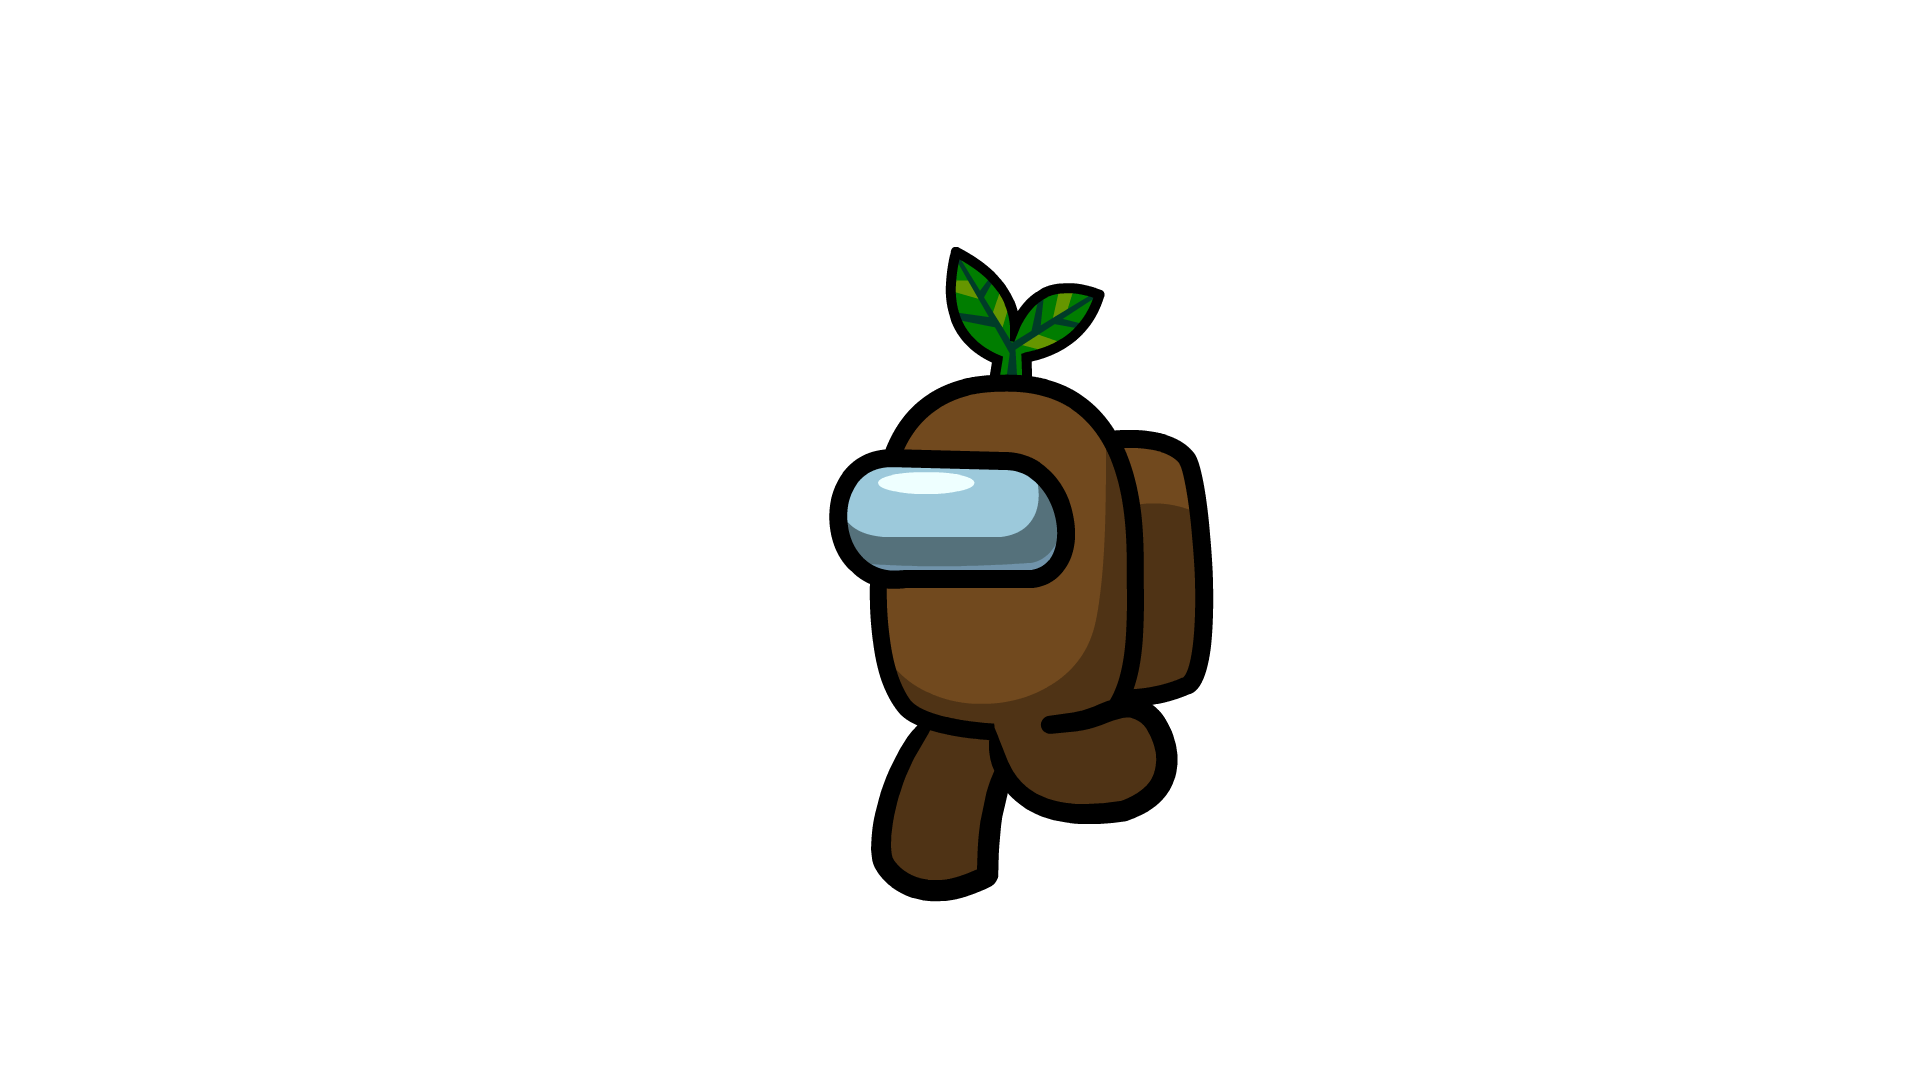
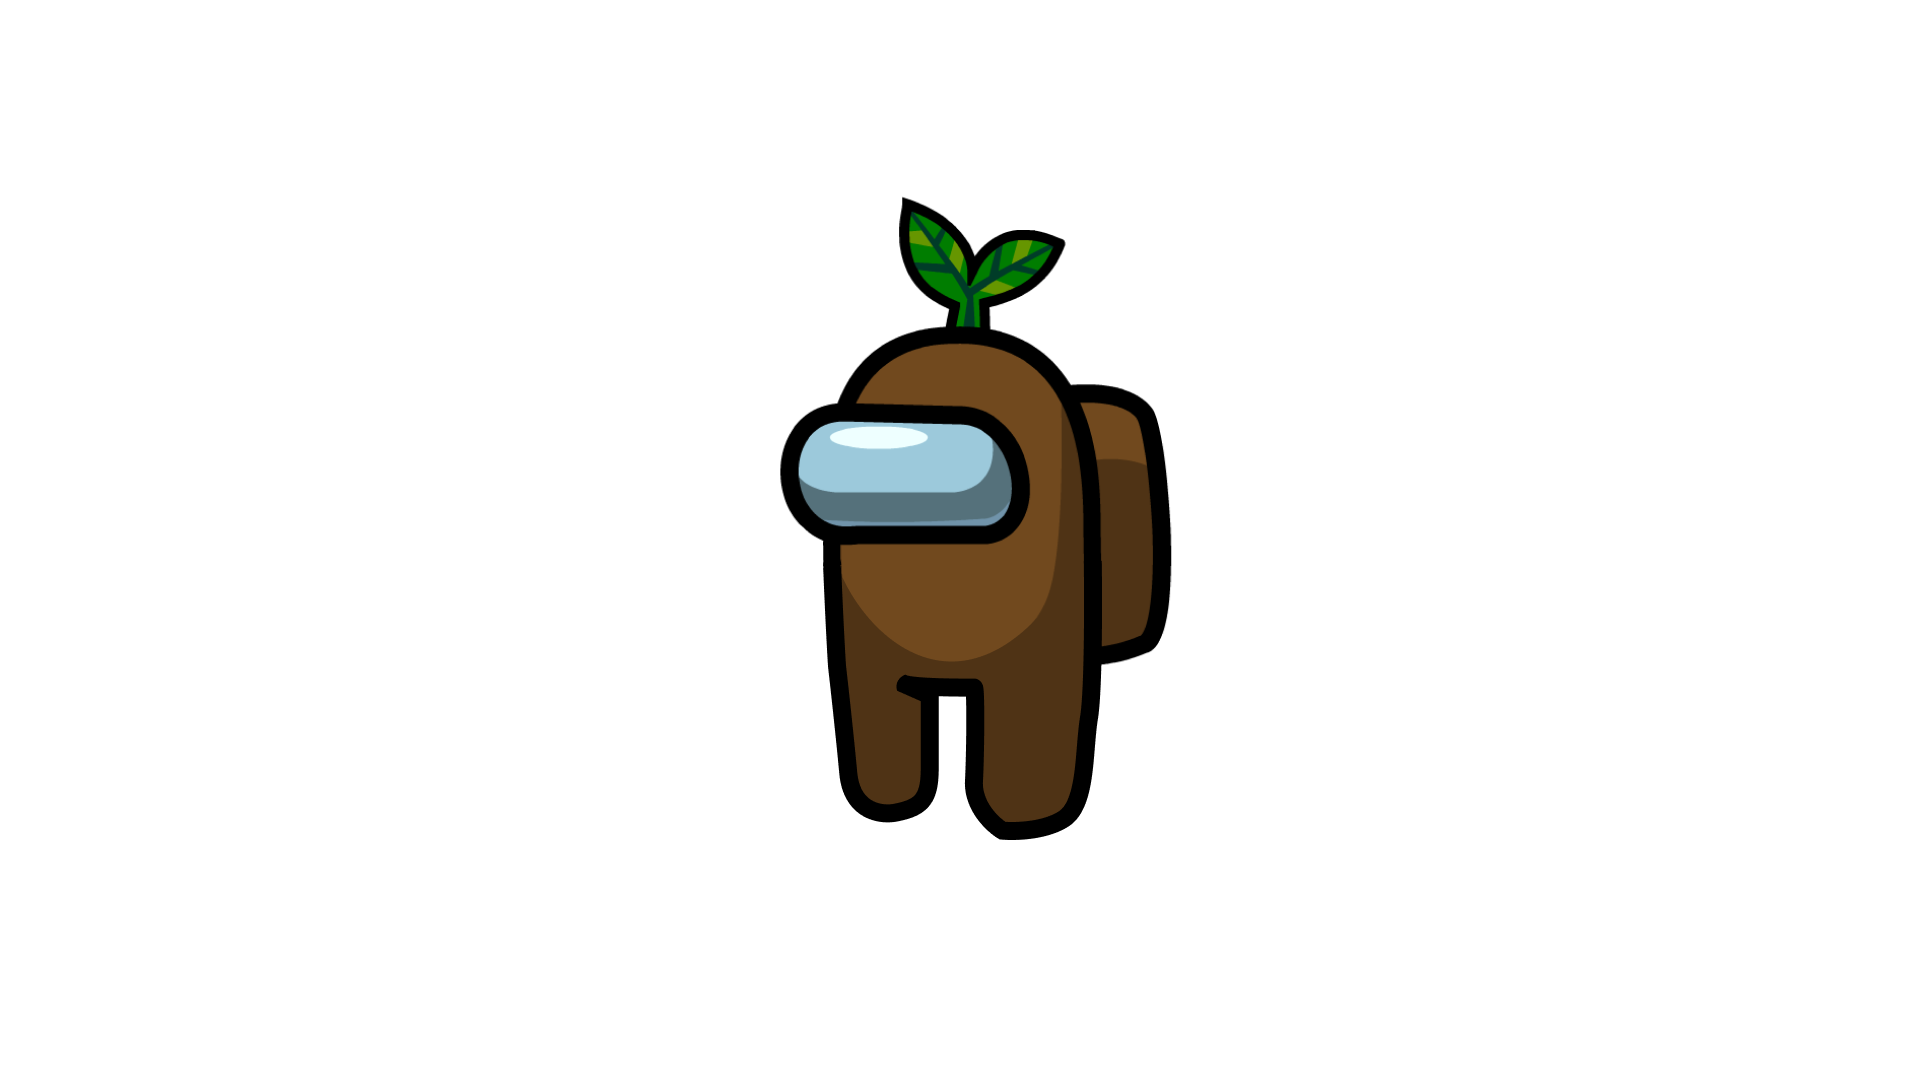
smooth motion

Changed region(s): [[0.4062, 0.1833, 0.6562, 0.8556]]

diff --git a/index.html b/index.html
@@ -10,6 +10,7 @@
             top: 0;
             width: 100%;
             height: 100%;
+            margin: 0;
         }
     </style>
 </head>
@@ -27,7 +28,7 @@
         canvas.height = screenHeight
         
         const ImageCrew = []
-        for (let i = 0; i < 12; i++) {
+        for (let i = 0; i < 26; i++) {
             ImageCrew[i] = new Image()
             ImageCrew[i].src = `img/crewmatesFrame/${i}.png`
             ImageCrew[i].style.opacity = 0.3
@@ -46,9 +47,18 @@
             }
             
             this.Draw = () => {
-                this.frame = this.frame + 1 >= 12 ? 0 : ++this.frame 
+                // this.frame = this.frame + 1 >= 25 ? 0 : ++this.frame 
                 this.Position.X += this.velocity
-                this.image = ImageCrew[this.frame]
+                // this.image = ImageCrew[this.frame]
+                
+                if (this.velocity < 0) {
+                    if (this.frame < 1 || this.frame > 12) this.frame = 1
+                    this.image = ImageCrew[this.frame++]
+                } else if (this.velocity > 0) {
+                    if (this.frame < 13 || this.frame > 24) this.frame = 13
+                    this.image = ImageCrew[this.frame++]
+                }
+
                 ctx.drawImage(this.image, this.Position.X, this.Position.Y, this.width, this.height)
             }
         }
@@ -80,10 +90,20 @@
         const uncontrolling = (e) => {
             if (e.which == 65 || e.which == 37){
                 isLeftPressed = false
-                crewmates.velocity = isRightPressed ? 5 : 0                
+                if (isRightPressed) {
+                    crewmates.velocity = 5
+                } else {
+                    crewmates.velocity = 0
+                    crewmates.image = ImageCrew[0]
+                }               
             }else if (e.which == 68 || e.which == 39){
                 isRightPressed = false
-                crewmates.velocity = isLeftPressed ? -5 : 0
+                if (isLeftPressed) {
+                    crewmates.velocity = -5
+                } else {
+                    crewmates.velocity = 0
+                    crewmates.image = ImageCrew[25]
+                }             
             }
         }
 
